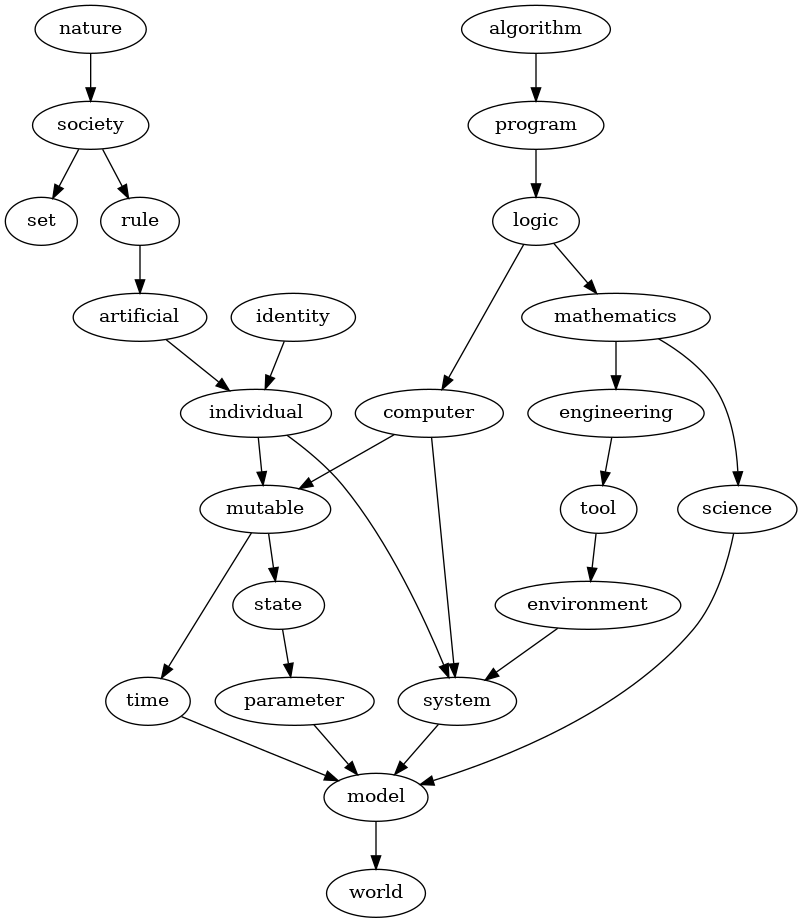
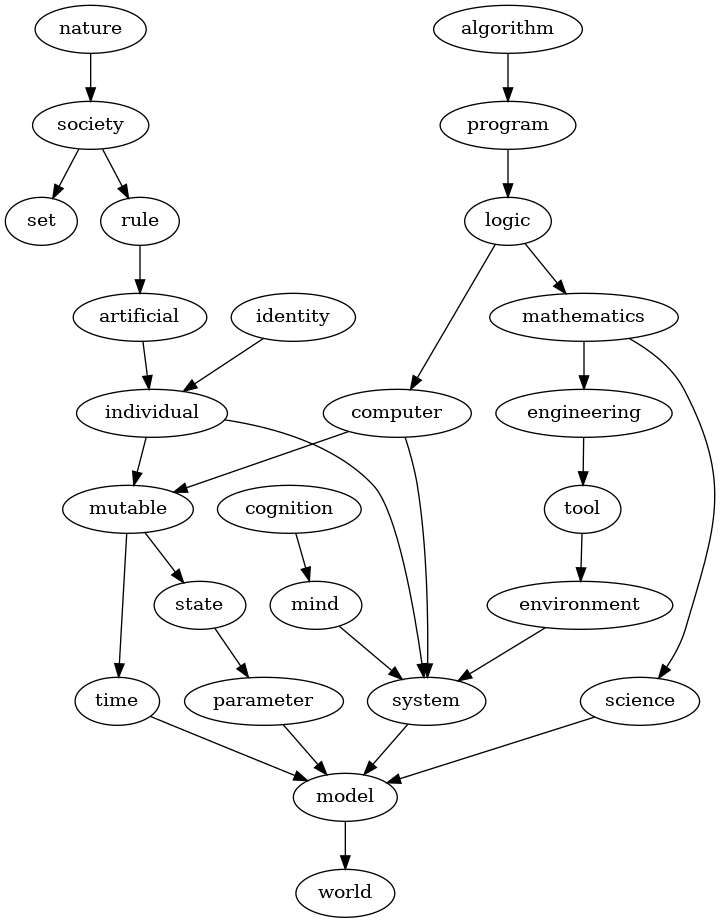
Add definitions for 'mind' and 'cognition'. Woohoo!

diff --git a/docs/2020-09-12-dictionary/index.html b/docs/2020-09-12-dictionary/index.html
@@ -45,6 +45,8 @@
 <p><span id="vanity-6c6f676963"></span><strong>logic</strong>: <span class="vanity-contents">The <a href="#vanity-6d617468656d6174696373" class="vanity-term-link">mathematical</a> subfield of logic. It is focused on the general properties of formal systems and characterizing what can and cannot be done with mathematics and <a href="#vanity-636f6d7075746572" class="vanity-term-link">computers</a>.</span></p>
 <p><span id="vanity-70726f6772616d"></span><strong>program</strong>: <span class="vanity-contents">A computer program in the usual sense. A program consists of a finite collection of instructions that can be executed by a computer or by a Turing machine. A program may or may not take external input. In theoretical studies, the input is often baked into the program or into the initial state of the computer's memory. A program may or not terminate. Determining whether a program terminates is not always possible, which is known as the halting problem. A program can be viewed as a mathematical proof and vice-versa, which is known as the Curry-Howard correspondence, and offers a link between <a href="#vanity-6c6f676963" class="vanity-term-link">logic</a> and <a href="#vanity-636f6d7075746572" class="vanity-term-link">computation</a>.</span></p>
 <p><span id="vanity-616c676f726974686d"></span><strong>algorithm</strong>: <span class="vanity-contents">An algorithm is a <a href="#vanity-70726f6772616d" class="vanity-term-link">program</a> that terminates.</span></p>
+<p><span id="vanity-6d696e64"></span><strong>mind</strong>: <span class="vanity-contents">The components of a <a href="#vanity-73797374656d" class="vanity-term-link">system</a> that make it more durable independently from its other properties. This tentative definition is meant to incorporate the dualist notion that the mind is separate from the rest of the body and somewhat optional, while emphasizing that it's only a simplified model useful for studying decision processes.</span></p>
+<p><span id="vanity-636f676e6974696f6e"></span><strong>cognition</strong>: <span class="vanity-contents">The properties of a <a href="#vanity-6d696e64" class="vanity-term-link">mind</a>.</span></p>
 <p><span id="dag"></span> <a href="img/glossary-deps.png"><img src="img/glossary-deps.png" title="Graph showing the dependencies between definitions of this glossary." /></a></p>
 <p class="menu footer">
   <a href="https://twitter.com/mjambon">@mjambon</a> 2020-09-12<br/>

diff --git a/src/2020-09-12-dictionary/index.md b/src/2020-09-12-dictionary/index.md
@@ -190,6 +190,17 @@ between [logic](#vanity-6c6f676963){.vanity-term-link} and
 [program](#vanity-70726f6772616d){.vanity-term-link} that
 terminates.]{.vanity-contents}
 
+[]{#vanity-6d696e64}**mind**: [The components of a
+[system](#vanity-73797374656d){.vanity-term-link} that make it more
+durable independently from its other properties. This tentative
+definition is meant to incorporate the dualist notion that the mind is
+separate from the rest of the body and somewhat optional, while
+emphasizing that it\'s only a simplified model useful for studying
+decision processes.]{.vanity-contents}
+
+[]{#vanity-636f676e6974696f6e}**cognition**: [The properties of a
+[mind](#vanity-6d696e64){.vanity-term-link}.]{.vanity-contents}
+
 []{#dag}
 [![](img/glossary-deps.png "Graph showing the dependencies between definitions of
               this glossary.")](img/glossary-deps.png)
